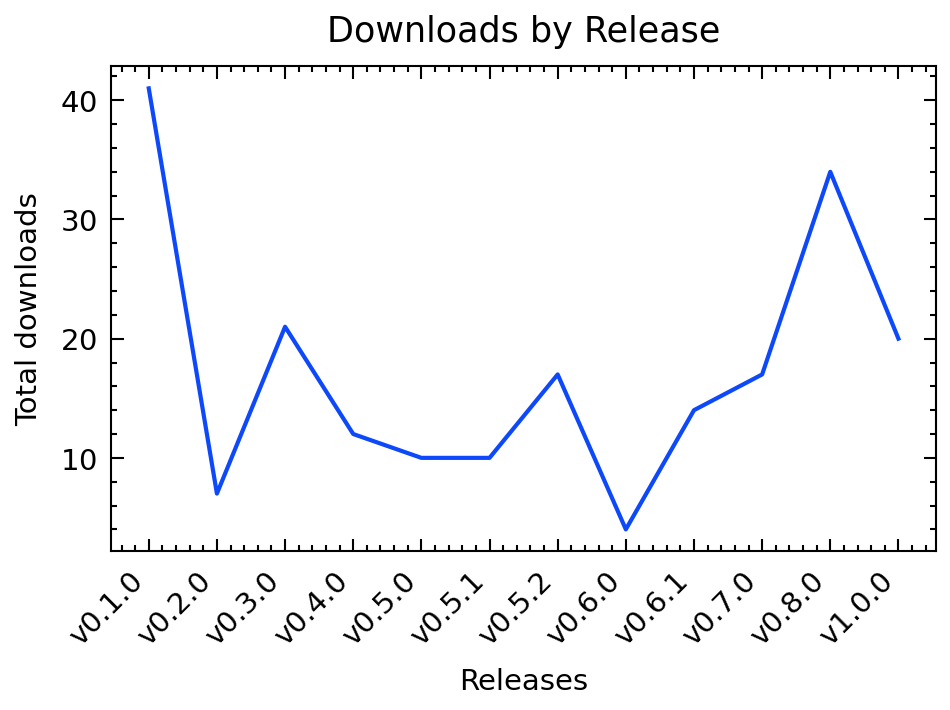
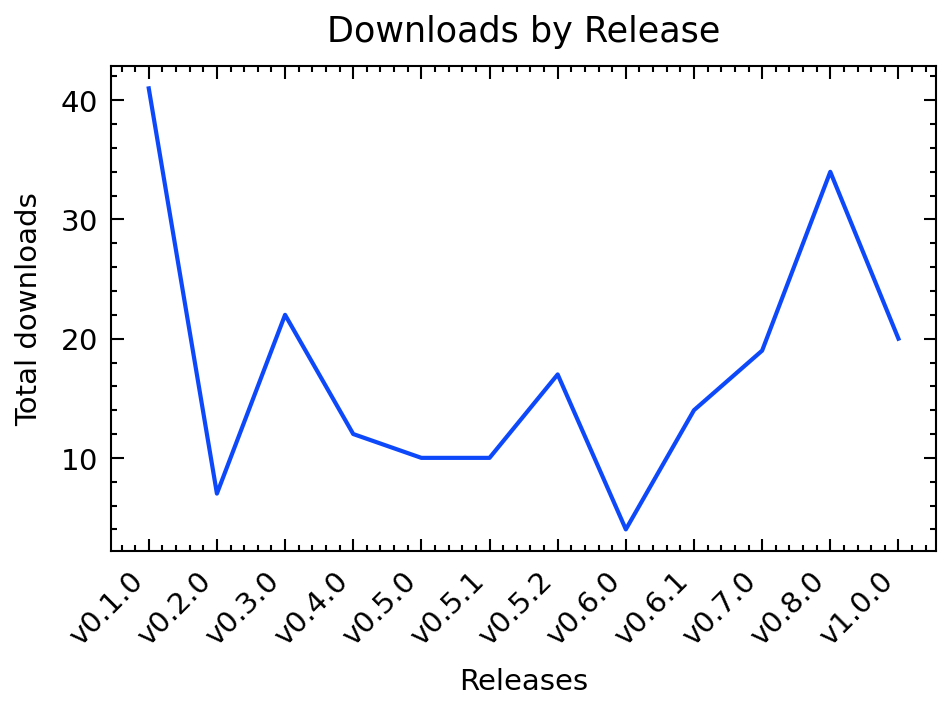
Updated Metrics data

diff --git a/README.md b/README.md
@@ -4,7 +4,7 @@
 SciWIn-Client helps users creating **Computational Workflows** in CWL. Detailed Information about SciWIn-Client can be found in the [GitHub Repository](https://github.com/fairagro/m4.4_sciwin_client). The Metrics shown below have been calculated using the GitHub API. Presentation is done via a CWL Workflow and the scripts in this repository.
 
 ## Downloads by Version
-SciWIn-Client currently has about 207 overall downloads across all versions and operating systems. The lastest version v1.0.0 currently has 20 downloads.
+SciWIn-Client currently has about 210 overall downloads across all versions and operating systems. The lastest version v1.0.0 currently has 20 downloads.
 
 
 ![downloads by version](release.png)
@@ -14,20 +14,20 @@ SciWIn-Client currently has about 207 overall downloads across all versions and 
 |---------|-----------|
 | v1.0.0 | 20|
 | v0.8.0 | 34|
-| v0.7.0 | 17|
+| v0.7.0 | 19|
 | v0.6.1 | 14|
 | v0.6.0 | 4|
 | v0.5.2 | 17|
 | v0.5.1 | 10|
 | v0.5.0 | 10|
 | v0.4.0 | 12|
-| v0.3.0 | 21|
+| v0.3.0 | 22|
 | v0.2.0 | 7|
 | v0.1.0 | 41|
 
 
 ## Downloads by Operating System
-SciWIn-Client is used on all major operating systems. There are 110 downloads of the Linux executable, 40 downloads of the Windows executable and 57 downloads of the Mac OS executable.
+SciWIn-Client is used on all major operating systems. There are 110 downloads of the Linux executable, 40 downloads of the Windows executable and 60 downloads of the Mac OS executable.
 
 
 ![downloads by platform](platform.png)
@@ -35,9 +35,9 @@ SciWIn-Client is used on all major operating systems. There are 110 downloads of
 
 | Platform | Downloads |
 |---------|-----------|
-| MacOS (ARM) | 33|
+| MacOS (ARM) | 35|
 | Linux (ARM) | 28|
-| MacOS (x64) | 24|
+| MacOS (x64) | 25|
 | Windows (x64) | 40|
 | Linux (x64) | 82|
 
